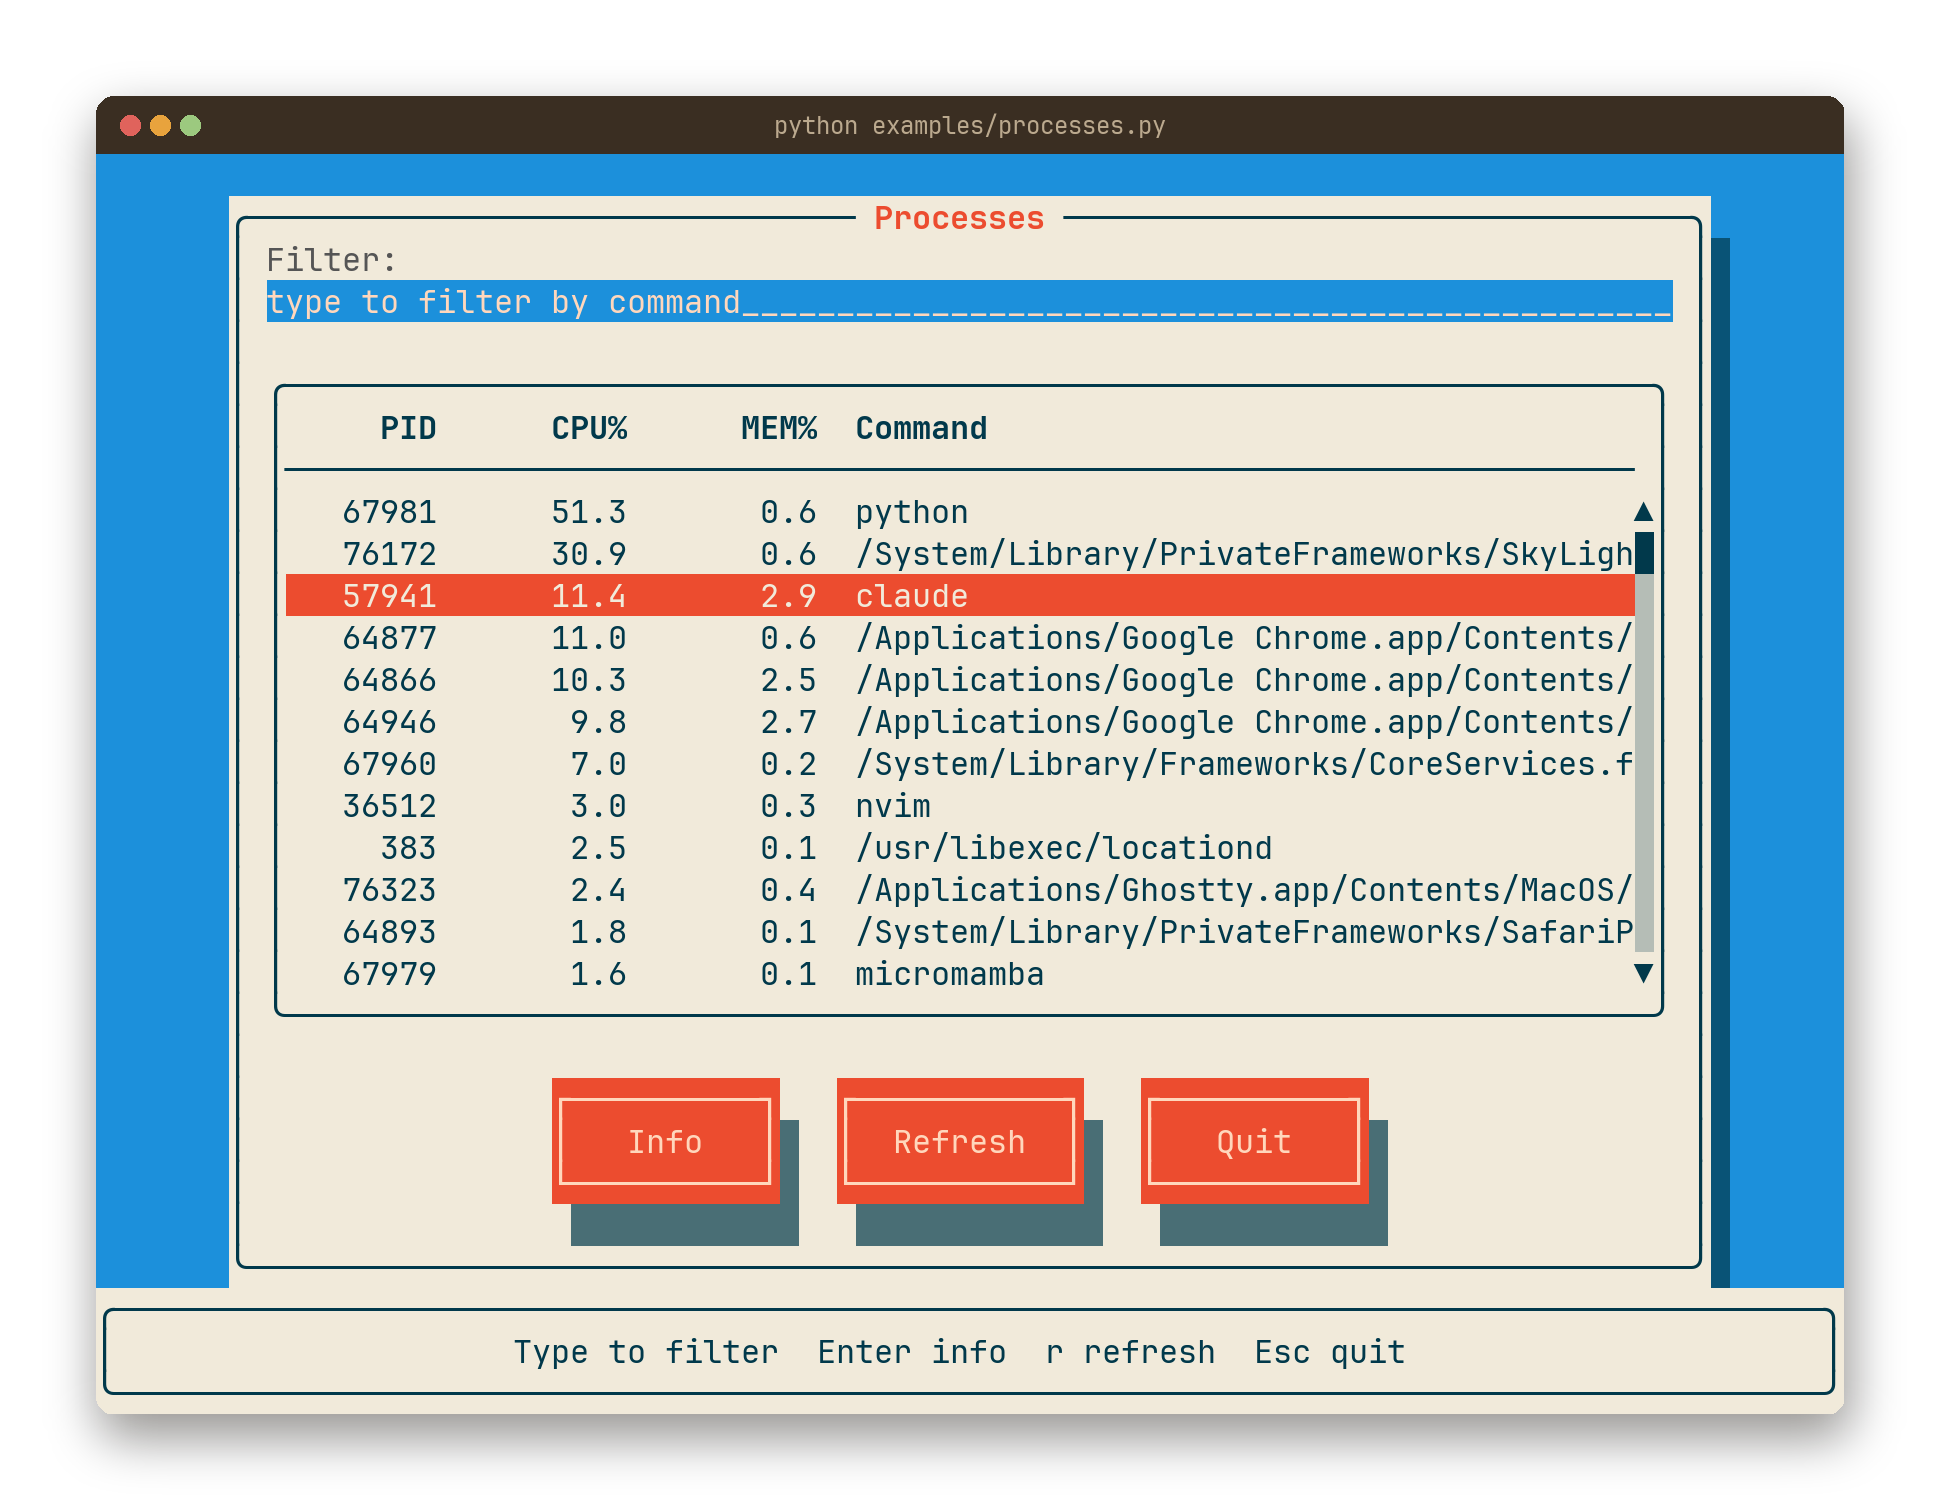
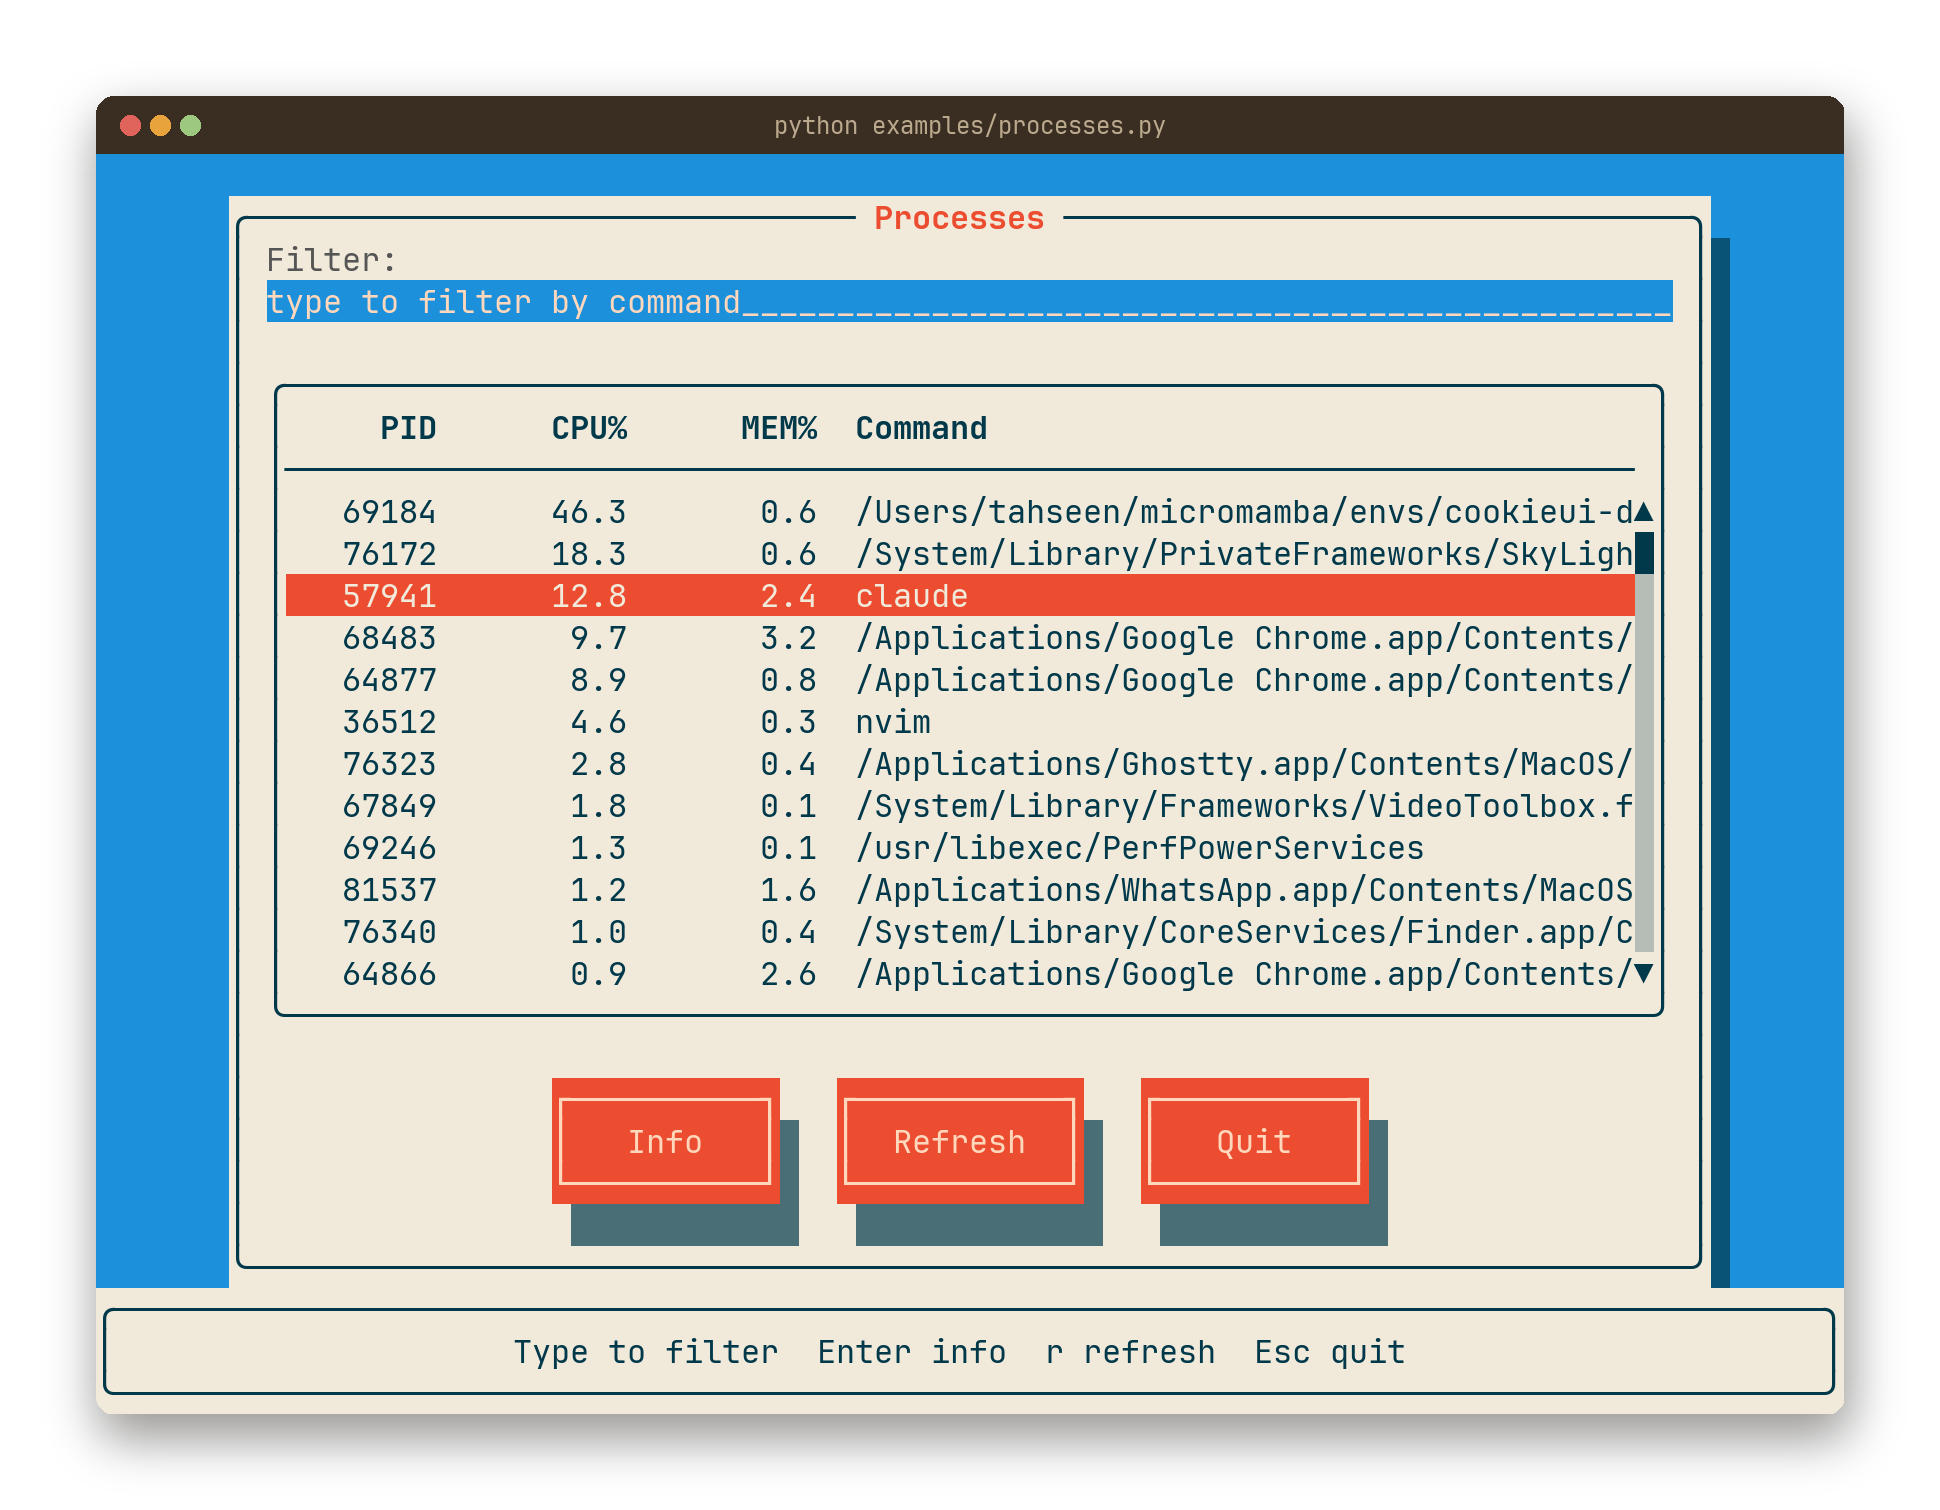
Screenshot renderer: half blocks and lower-eighth blocks as sub-cell fills
The block-element fix covered the full-cell shades only; the FLAT theme's
scrollbar thumb (right half block) and the pulse spinner's lower-eighth
frames still rendered as font glyphs. They now draw as exact sub-cell
rectangles, matching how real terminals special-case them.

diff --git a/screenshots/generate.py b/screenshots/generate.py
@@ -60,6 +60,8 @@ def load(name):
 
 
 BLOCKS = {'\u2588': 1.0, '\u2593': 0.75, '\u2592': 0.5, '\u2591': 0.25}
+LOWER = {chr(0x2581 + i): (i + 1) / 8 for i in range(7)}    # \u2581\u2582\u2583\u2584\u2585\u2586\u2587
+HALVES = {'\u258c': 'left', '\u2590': 'right', '\u2580': 'top'}
 
 
 def grid_image(screen):
@@ -79,6 +81,18 @@ def grid_image(screen):
                 mix = tuple(int(f * k + b * (1 - k)) for f, b in zip(fg, bg))
                 drw.rectangle([x * CW, y * CH, (x + 1) * CW - 1, (y + 1) * CH - 1],
                               fill=mix)
+            elif ch in LOWER:
+                # lower-eighth blocks (pulse spinner): solid fg from the bottom up
+                top = y * CH + round(CH * (1 - LOWER[ch]))
+                drw.rectangle([x * CW, top, (x + 1) * CW - 1, (y + 1) * CH - 1],
+                              fill=c.fg or (255, 255, 255))
+            elif ch in HALVES:
+                # half blocks (FLAT scrollbar thumb): solid fg in that half-cell
+                box = {'left':  [x * CW, y * CH, x * CW + CW // 2 - 1, (y + 1) * CH - 1],
+                       'right': [x * CW + CW // 2, y * CH, (x + 1) * CW - 1, (y + 1) * CH - 1],
+                       'top':   [x * CW, y * CH, (x + 1) * CW - 1, y * CH + CH // 2 - 1],
+                       }[HALVES[ch]]
+                drw.rectangle(box, fill=c.fg or (255, 255, 255))
             elif ch != ' ':
                 drw.text((x * CW + CW // 2, y * CH + CH // 2), ch,
                          font=BOLD if c.bold else FONT,